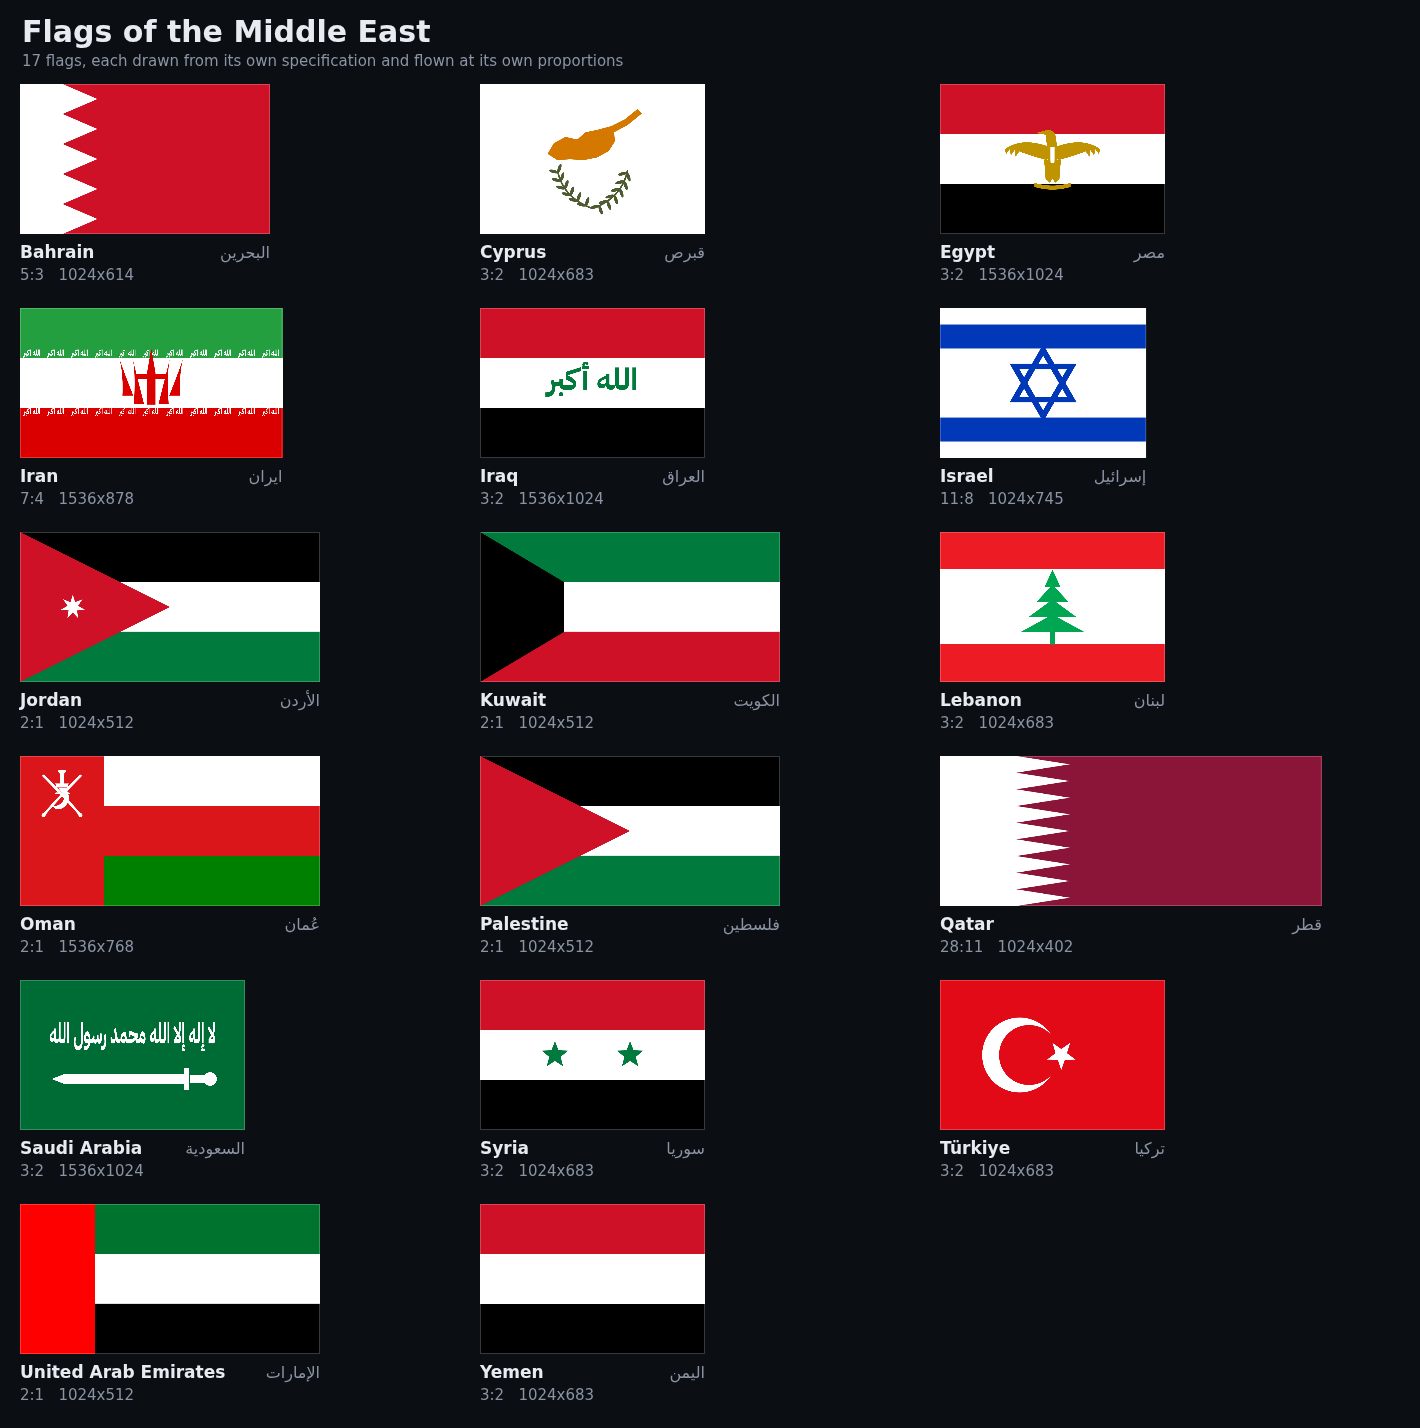
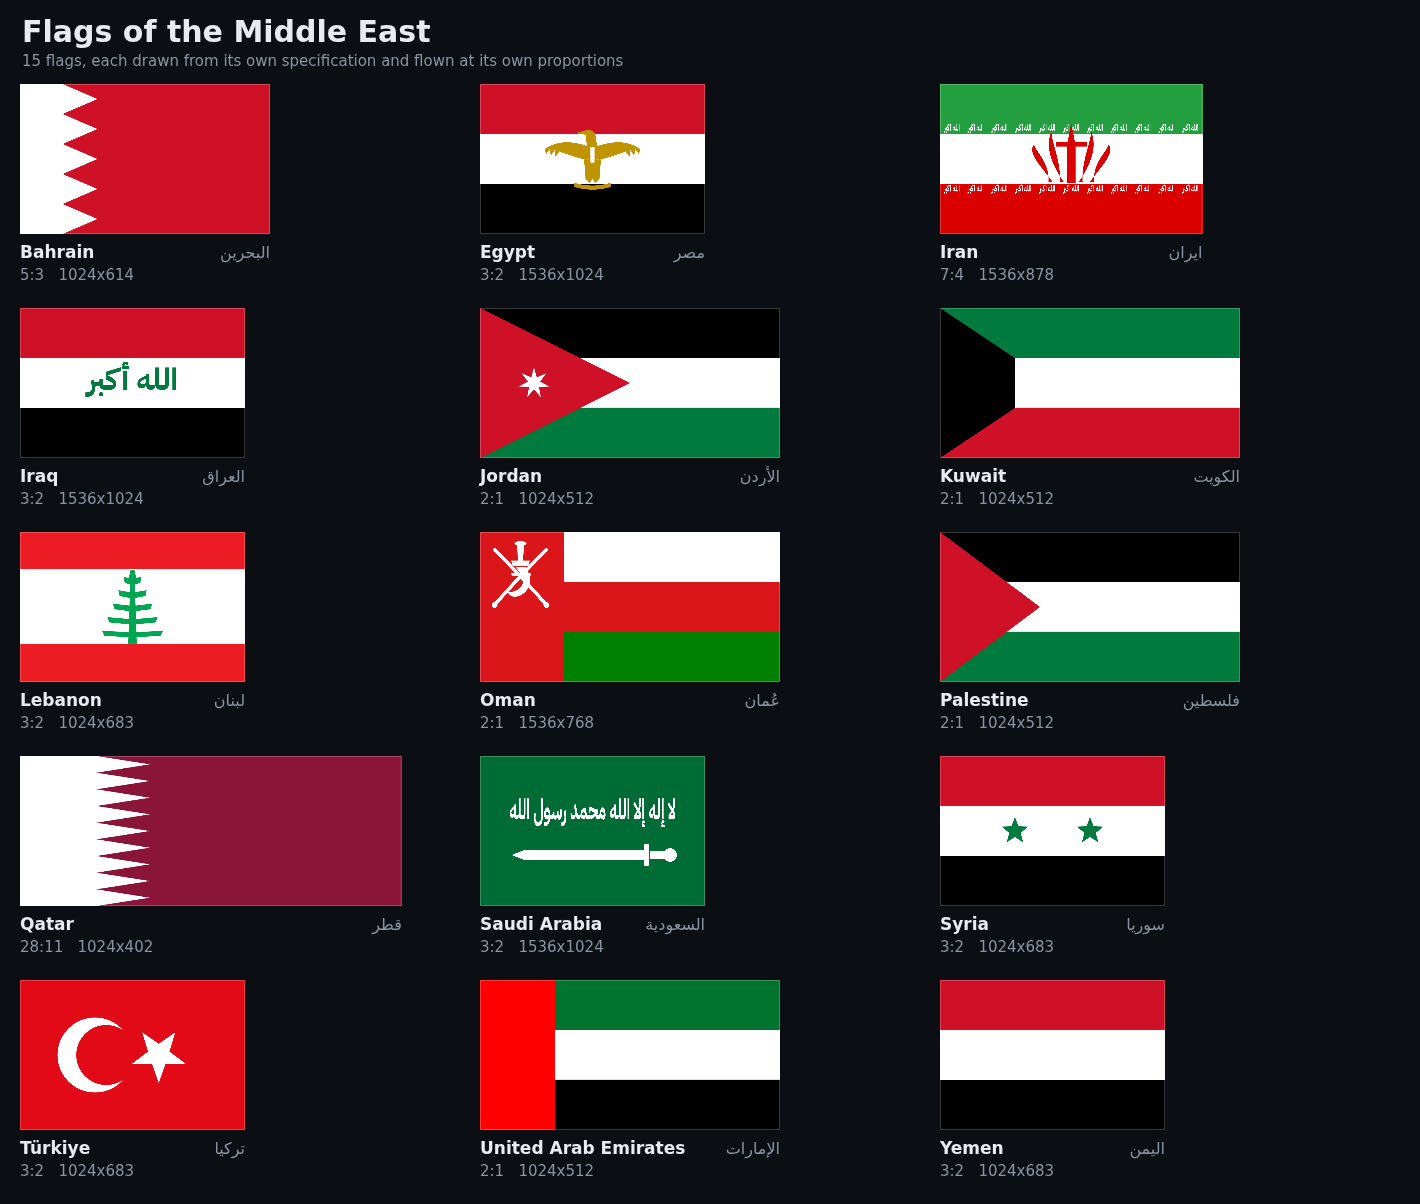
Fifteen flags: two removed, and the rest corrected against their specs
Israel and Cyprus are out of the set at the user's direction, in the
module, the corniche masts and the test's expectations.

The other fifteen were gone through one at a time against their own
published construction, and seven of them were wrong.

  Türkiye     The Flag Law gives this one exactly, on a 30 x 20 grid:
              crescent outer circle diameter 10 centred 10 along, inner
              diameter 8 centred 11.5, star circumscribed diameter 7.5
              centred at 18.5. Every figure here was eyeballed — the
              star sat at 0.539 of the length instead of 0.617 and was
              less than half its proper size. It is those numbers over
              30 and over 20 now, and the star is turned so a point aims
              back into the crescent's opening.

  Palestine   The chevron reaches a THIRD of the length, not a half.
              At a half it is Jordan's chevron, and the two flags became
              the same picture minus a star — which is exactly what the
              distinctness check had been complaining about.

  Kuwait      The trapezoid runs a quarter of the length. 0.28 was a
              guess and made the hoist heavy.

  Lebanon     The cedar was a Christmas tree. A Lebanon cedar is the
              opposite shape to a fir — horizontal boughs, broad flat
              crown — and that is why it reads as a cedar at distance
              where a stepped triangle never does. It also fills the
[…]

diff --git a/src/game/flags.ts b/src/game/flags.ts
@@ -42,11 +42,9 @@ import { textTexture, arabicUI } from "./text";
 /** A country whose flag this module can draw. */
 export type FlagId =
   | "bh" // Bahrain
-  | "cy" // Cyprus
   | "eg" // Egypt
   | "ir" // Iran
   | "iq" // Iraq
-  | "il" // Israel
   | "jo" // Jordan
   | "kw" // Kuwait
   | "lb" // Lebanon
@@ -240,85 +238,6 @@ export const FLAGS: Record<FlagId, FlagSpec> = {
     },
   },
 
-  // Cyprus — 3:2. The island itself in copper, over two olive branches.
-  cy: {
-    name: "Cyprus",
-    nameAr: "قبرص",
-    ratio: 3 / 2,
-    draw(ctx, w, h) {
-      ctx.fillStyle = WHITE;
-      ctx.fillRect(0, 0, w, h);
-      // The island. Copper, for the ore the place is named after.
-      //
-      // Drawn as a real outline rather than a rounded blob: the shape is
-      // a broad south-west mass, a notch at Morphou Bay on the north
-      // coast, and the Karpas peninsula running away to the north-east
-      // as a long thin finger. That finger is 40% of the island's length
-      // and is the entire reason the silhouette is recognisable — a
-      // version without it is an amoeba.
-      ctx.fillStyle = "#d57800";
-      const ix = w * 0.5, iy = h * 0.4, sc = w * 0.2;
-      const P: Array<[number, number]> = [
-        [-1.0, 0.22],   // Paphos, the western cape
-        [-0.86, -0.02],
-        [-0.6, -0.16],  // the north-west coast
-        [-0.34, -0.1],  // Morphou Bay, bitten in
-        [-0.16, -0.26],
-        [0.12, -0.32],  // Kyrenia range along the north
-        [0.42, -0.4],
-        [0.72, -0.55],
-        [1.0, -0.78],   // the Karpas tip
-        [1.1, -0.68],
-        [0.78, -0.42],
-        [0.48, -0.26],
-        [0.5, -0.06],   // Famagusta, on the east coast
-        [0.36, 0.16],
-        [0.1, 0.3],     // the south coast
-        [-0.2, 0.36],
-        [-0.5, 0.34],
-        [-0.78, 0.36],  // Limassol and the south-west
-      ];
-      ctx.beginPath();
-      P.forEach(([px, py], i) => {
-        const x = ix + px * sc, y = iy + py * sc;
-        if (i === 0) ctx.moveTo(x, y);
-        else ctx.lineTo(x, y);
-      });
-      ctx.closePath();
-      ctx.fill();
-      // Two olive branches, crossing below the island — stems meeting at
-      // the centre, leaves paired along each stem.
-      ctx.strokeStyle = "#4e5b31";
-      ctx.fillStyle = "#4e5b31";
-      ctx.lineWidth = h * 0.011;
-      ctx.lineCap = "round";
-      for (const side of [-1, 1]) {
-        const x0 = w * 0.5, y0 = h * 0.83;
-        const x1 = w * (0.5 + side * 0.155), y1 = h * 0.58;
-        ctx.beginPath();
-        ctx.moveTo(x0, y0);
-        ctx.quadraticCurveTo(w * (0.5 + side * 0.13), h * 0.76, x1, y1);
-        ctx.stroke();
-        for (let i = 0; i < 6; i++) {
-          const t = 0.12 + i * 0.17;
-          // Point along the quadratic, so a leaf sits ON the stem.
-          const mt = 1 - t;
-          const bx = mt * mt * x0 + 2 * mt * t * w * (0.5 + side * 0.13) + t * t * x1;
-          const by = mt * mt * y0 + 2 * mt * t * h * 0.76 + t * t * y1;
-          for (const out of [-1, 1]) {
-            ctx.save();
-            ctx.translate(bx, by);
-            ctx.rotate(side * 0.5 + out * 0.75);
-            ctx.beginPath();
-            ctx.ellipse(w * 0.02 * out * side, 0, w * 0.021, h * 0.011, 0, 0, Math.PI * 2);
-            ctx.fill();
-            ctx.restore();
-          }
-        }
-      }
-    },
-  },
-
   // Egypt — 3:2. The Eagle of Saladin on the white band.
   eg: {
     name: "Egypt",
@@ -417,60 +336,74 @@ export const FLAGS: Record<FlagId, FlagSpec> = {
     draw(ctx, w, h) {
       bands(ctx, w, h, ["#239f40", WHITE, "#da0000"]);
       // The takbir, eleven along the foot of the green and eleven along
-      // the head of the red, facing the white.
+      // the head of the red, facing the white — twenty-two in all, for
+      // the date of the revolution.
       const n = 11;
       for (let i = 0; i < n; i++) {
         const x = (w * (i + 0.5)) / n;
-        script(ctx, "الله اکبر", x, h * 0.305, w / n * 0.7, h * 0.055, WHITE);
-        script(ctx, "الله اکبر", x, h * 0.695, w / n * 0.7, h * 0.055, WHITE);
+        script(ctx, "الله اکبر", x, h * 0.297, (w / n) * 0.66, h * 0.062, WHITE);
+        script(ctx, "الله اکبر", x, h * 0.703, (w / n) * 0.66, h * 0.062, WHITE);
       }
-      // The emblem: a central sword between two pairs of crescents,
-      // the whole reading as a tulip. Drawn as five separate strokes
-      // with a shamsa bar across the middle — the first pass was two
-      // quadratics a side that filled into a single red lobe, which is
-      // a blob, not an emblem. The silhouette here is symmetric, open
-      // between the elements, and taller than it is wide.
-      const cx = w * 0.5, cy = h * 0.5, s2 = h * 0.2;
+
+      // The emblem: four crescents around a central sword, the whole
+      // reading as a tulip, with a shadda bar across the top.
+      //
+      // Two rewrites. The first filled into one red lobe; the second was
+      // five separate strokes that did not agree on a centre. This one
+      // is built the way the emblem is actually composed — a vertical
+      // axis, then mirrored pairs stepped OUTWARD and DOWNWARD from it,
+      // each a closed crescent with its own opening. The gaps between
+      // the five elements are as much of the shape as the elements.
+      const cx = w * 0.5, cy = h * 0.5, s2 = h * 0.185;
       ctx.fillStyle = "#da0000";
-      // The sword: a tapered blade rising to a point.
+      // Central blade: a long isosceles rising to a point.
       ctx.beginPath();
-      ctx.moveTo(cx, cy - s2 * 1.15);
-      ctx.lineTo(cx + s2 * 0.14, cy - s2 * 0.35);
-      ctx.lineTo(cx + s2 * 0.14, cy + s2 * 0.72);
-      ctx.lineTo(cx - s2 * 0.14, cy + s2 * 0.72);
-      ctx.lineTo(cx - s2 * 0.14, cy - s2 * 0.35);
+      ctx.moveTo(cx, cy - s2 * 1.28);
+      ctx.lineTo(cx + s2 * 0.155, cy - s2 * 0.5);
+      ctx.lineTo(cx + s2 * 0.155, cy + s2 * 0.86);
+      ctx.lineTo(cx - s2 * 0.155, cy + s2 * 0.86);
+      ctx.lineTo(cx - s2 * 0.155, cy - s2 * 0.5);
       ctx.closePath();
       ctx.fill();
-      // The bar across it — the shamsa.
-      ctx.fillRect(cx - s2 * 0.52, cy - s2 * 0.3, s2 * 1.04, s2 * 0.16);
-      // Two pairs of crescents, opening outward, each a filled arc band.
-      const petal = (
-        side: number,
-        lean: number,
-        reach: number,
-        thick: number,
-        drop: number
-      ): void => {
+      // The shadda: a bar across the blade, above centre.
+      ctx.fillRect(cx - s2 * 0.56, cy - s2 * 0.62, s2 * 1.12, s2 * 0.17);
+      // Four crescents.
+      //
+      // Third attempt, and the fault each time was the same: the tips
+      // pointed UP. A crescent that rises vertically beside a vertical
+      // sword is a spike, and four spikes around a fifth is a comb, not
+      // a tulip. The emblem's crescents lean OUTWARD — each one leaves
+      // the base heading sideways and only then turns up, so the pair
+      // opens away from the axis and the gap between them is a curve.
+      //
+      // `out` is how far the tip lies from the axis, `up` how high it
+      // gets. Keeping out comparable to up is the whole shape.
+      const petal = (side: number, base: number, out: number, up: number, thick: number): void => {
+        const bx = cx + side * s2 * base;
+        const by = cy + s2 * 0.84;
+        const tx = cx + side * s2 * out;
+        const ty = cy - s2 * up;
         ctx.beginPath();
-        ctx.moveTo(cx + side * s2 * lean, cy + s2 * drop);
-        ctx.quadraticCurveTo(
-          cx + side * s2 * (lean + reach * 0.8),
-          cy - s2 * (0.5 + reach * 0.25),
-          cx + side * s2 * (lean + reach),
-          cy - s2 * (0.95 + reach * 0.1)
+        ctx.moveTo(bx, by);
+        // Outer edge: away from the axis first, then up to the tip.
+        ctx.bezierCurveTo(
+          cx + side * s2 * (base + thick * 1.5), cy + s2 * 0.2,
+          cx + side * s2 * (out + thick * 0.75), cy - s2 * (up * 0.45),
+          tx, ty
         );
-        ctx.quadraticCurveTo(
-          cx + side * s2 * (lean + reach * 0.62),
-          cy - s2 * (0.35 + reach * 0.2),
-          cx + side * s2 * (lean + thick),
-          cy + s2 * drop
+        // Inner edge: back down, hugging the axis, leaving a crescent's
+        // hollow between this petal and its neighbour.
+        ctx.bezierCurveTo(
+          cx + side * s2 * (out - thick * 0.15), cy - s2 * (up * 0.5),
+          cx + side * s2 * (base + thick * 0.35), cy + s2 * 0.1,
+          bx + side * s2 * thick * 0.5, by
         );
         ctx.closePath();
         ctx.fill();
       };
       for (const side of [-1, 1]) {
-        petal(side, 0.24, 0.42, 0.34, 0.7);  // inner
-        petal(side, 0.6, 0.52, 0.36, 0.42);  // outer
+        petal(side, 0.26, 0.72, 0.98, 0.3);   // inner: tall, close in
+        petal(side, 0.66, 1.34, 0.52, 0.32);  // outer: low and far out
       }
     },
   },
@@ -484,37 +417,6 @@ export const FLAGS: Record<FlagId, FlagSpec> = {
     draw(ctx, w, h) {
       bands(ctx, w, h, [PAN_ARAB_RED, WHITE, PAN_ARAB_BLACK]);
       script(ctx, "الله أكبر", w * 0.5, h * 0.5, w * 0.44, h * 0.2, "#007a3d");
-    },
-  },
-
-  // Israel — 8:11.
-  il: {
-    name: "Israel",
-    nameAr: "إسرائيل",
-    ratio: 11 / 8,
-    draw(ctx, w, h) {
-      ctx.fillStyle = WHITE;
-      ctx.fillRect(0, 0, w, h);
-      ctx.fillStyle = "#0038b8";
-      const bandH = h * 0.16;
-      ctx.fillRect(0, h * 0.11, w, bandH);
-      ctx.fillRect(0, h - h * 0.11 - bandH, w, bandH);
-      // The Star of David: two overlaid triangles, drawn as outlines.
-      const cx = w * 0.5, cy = h * 0.5, r = h * 0.22;
-      ctx.strokeStyle = "#0038b8";
-      ctx.lineWidth = h * 0.038;
-      for (const flip of [0, Math.PI]) {
-        ctx.beginPath();
-        for (let i = 0; i < 3; i++) {
-          const a = flip - Math.PI / 2 + (i * Math.PI * 2) / 3;
-          const x = cx + Math.cos(a) * r;
-          const y = cy + Math.sin(a) * r;
-          if (i === 0) ctx.moveTo(x, y);
-          else ctx.lineTo(x, y);
-        }
-        ctx.closePath();
-        ctx.stroke();
-      }
     },
   },
 
@@ -533,8 +435,12 @@ export const FLAGS: Record<FlagId, FlagSpec> = {
       ctx.lineTo(0, h);
       ctx.closePath();
       ctx.fill();
+      // The star sits on the chevron's axis at a quarter of the length,
+      // and its seven points are slim: the inner radius is a little
+      // under half the outer, which is what keeps it a star and not a
+      // cog. The old inner/outer pair was too close together.
       ctx.fillStyle = WHITE;
-      star(ctx, w * 0.176, h * 0.5, h * 0.083, h * 0.036, 7);
+      star(ctx, w * 0.25 * 0.72, h * 0.5, h * 0.105, h * 0.042, 7);
     },
   },
 
@@ -547,11 +453,14 @@ export const FLAGS: Record<FlagId, FlagSpec> = {
       bands(ctx, w, h, [PAN_ARAB_GREEN, WHITE, PAN_ARAB_RED]);
       // The black hoist is a trapezoid, not a triangle — the one thing
       // most redrawings of this flag get wrong.
+      // The trapezoid runs a QUARTER of the length, and its parallel
+      // edge sits on the two band boundaries — that is the published
+      // construction, and 0.28 was a guess that made the hoist heavy.
       ctx.fillStyle = PAN_ARAB_BLACK;
       ctx.beginPath();
       ctx.moveTo(0, 0);
-      ctx.lineTo(w * 0.28, h / 3);
-      ctx.lineTo(w * 0.28, (h * 2) / 3);
+      ctx.lineTo(w * 0.25, h / 3);
+      ctx.lineTo(w * 0.25, (h * 2) / 3);
       ctx.lineTo(0, h);
       ctx.closePath();
       ctx.fill();
@@ -565,22 +474,54 @@ export const FLAGS: Record<FlagId, FlagSpec> = {
     ratio: 3 / 2,
     draw(ctx, w, h) {
       bands(ctx, w, h, ["#ed1c24", WHITE, "#ed1c24"], [1, 2, 1]);
-      // The cedar: a stepped triangle of foliage on a short trunk.
+      // The cedar.
+      //
+      // Not a Christmas tree. A Lebanon cedar is the opposite shape to a
+      // fir: the branches are HORIZONTAL and the crown is broad and flat
+      // rather than pointed, which is why the tree reads as a cedar at
+      // any distance and a stepped triangle never does. The official
+      // flag also has it filling the whole white band and touching both
+      // red stripes, which is what makes it the subject of the flag.
       ctx.fillStyle = "#00a651";
-      const cx = w * 0.5, top = h * 0.28, bot = h * 0.68;
-      const tiers = 4;
+      const cx = w * 0.5;
+      const top = h * 0.255, bot = h * 0.745;      // touches both stripes
+      const span = bot - top;
+      const trunkW = w * 0.019;
+      // Trunk, tapering.
+      ctx.beginPath();
+      ctx.moveTo(cx - trunkW, bot);
+      ctx.lineTo(cx + trunkW, bot);
+      ctx.lineTo(cx + trunkW * 0.55, top + span * 0.2);
+      ctx.lineTo(cx - trunkW * 0.55, top + span * 0.2);
+      ctx.closePath();
+      ctx.fill();
+      // Five tiers of horizontal boughs, widest low, each drawn as a
+      // shallow wedge with a lifted tip — a cedar's branches rise a
+      // little at the ends.
+      const tiers = 5;
       for (let i = 0; i < tiers; i++) {
-        const t0 = top + ((bot - top) * i) / tiers;
-        const t1 = top + ((bot - top) * (i + 0.85)) / tiers;
-        const halfW = w * (0.035 + 0.035 * i);
-        ctx.beginPath();
-        ctx.moveTo(cx, t0 - h * 0.03);
-        ctx.lineTo(cx + halfW, t1);
-        ctx.lineTo(cx - halfW, t1);
-        ctx.closePath();
-        ctx.fill();
+        const t = i / (tiers - 1);                 // 0 at the crown
+        const y = top + span * (0.16 + t * 0.72);
+        const halfW = w * (0.038 + t * 0.098);
+        const thick = span * (0.075 - t * 0.012);
+        for (const side of [-1, 1]) {
+          ctx.beginPath();
+          ctx.moveTo(cx, y - thick * 0.5);
+          ctx.lineTo(cx + side * halfW, y - thick * 0.95);
+          ctx.lineTo(cx + side * halfW * 0.92, y + thick * 0.15);
+          ctx.lineTo(cx, y + thick * 0.6);
+          ctx.closePath();
+          ctx.fill();
+        }
       }
-      ctx.fillRect(cx - w * 0.012, bot - h * 0.03, w * 0.024, h * 0.1);
+      // The crown: a small flat-topped cap, not a spike.
+      ctx.beginPath();
+      ctx.moveTo(cx - w * 0.021, top + span * 0.17);
+      ctx.lineTo(cx - w * 0.009, top);
+      ctx.lineTo(cx + w * 0.009, top);
+      ctx.lineTo(cx + w * 0.021, top + span * 0.17);
+      ctx.closePath();
+      ctx.fill();
     },
   },
 
@@ -599,7 +540,10 @@ export const FLAGS: Record<FlagId, FlagSpec> = {
       // horizontal and two diagonals, which is an asterisk — the shape
       // that matters here is the sheath's J, hooking back on itself, and
       // that is the part this draws properly.
-      const cx = w * 0.14, cy = h * 0.24, s2 = h * 0.15;
+      // Sized to the hoist band it sits on, and placed in its upper
+      // half. At h * 0.15 it was a white scribble; the emblem is the
+      // whole point of this flag's hoist and can carry the width.
+      const cx = w * 0.135, cy = h * 0.27, s2 = h * 0.21;
       ctx.strokeStyle = WHITE;
       ctx.fillStyle = WHITE;
       ctx.lineCap = "round";
@@ -663,10 +607,13 @@ export const FLAGS: Record<FlagId, FlagSpec> = {
     ratio: 2,
     draw(ctx, w, h) {
       bands(ctx, w, h, [PAN_ARAB_BLACK, WHITE, PAN_ARAB_GREEN]);
+      // A THIRD of the length, which is what separates this chevron
+      // from Jordan's — that one reaches the halfway line. Drawn at the
+      // same depth they are the same flag minus a star.
       ctx.fillStyle = PAN_ARAB_RED;
       ctx.beginPath();
       ctx.moveTo(0, 0);
-      ctx.lineTo(w * 0.5, h * 0.5);
+      ctx.lineTo(w / 3, h * 0.5);
       ctx.lineTo(0, h);
       ctx.closePath();
       ctx.fill();
@@ -749,11 +696,20 @@ export const FLAGS: Record<FlagId, FlagSpec> = {
     nameAr: "تركيا",
     ratio: 3 / 2,
     draw(ctx, w, h) {
+      // The Turkish Flag Law gives this one exactly, on a 30 x 20 grid:
+      // the crescent's outer circle has diameter 10 centred 10 along,
+      // the inner circle diameter 8 centred 11.5 along, and the star's
+      // circumscribed circle diameter 7.5 centred at 18.5. Everything
+      // below is those numbers over 30 and over 20. The previous values
+      // were eyeballed and had the star at 0.539 of the length and less
+      // than half its proper size.
       ctx.fillStyle = "#e30a17";
       ctx.fillRect(0, 0, w, h);
-      crescent(ctx, w * 0.354, h * 0.5, h * 0.25, h * 0.2, h * 0.0625, WHITE, "#e30a17");
+      crescent(ctx, w * (10 / 30), h * 0.5, h * 0.25, h * 0.2, w * (1.5 / 30), WHITE, "#e30a17");
       ctx.fillStyle = WHITE;
-      star(ctx, w * 0.539, h * 0.5, h * 0.1, h * 0.04, 5, Math.PI);
+      // Point-up is wrong for this star: it is turned so one point aims
+      // back at the crescent's opening.
+      star(ctx, w * (18.5 / 30), h * 0.5, h * (3.75 / 20), h * (1.5 / 20), 5, Math.PI);
     },
   },
 
